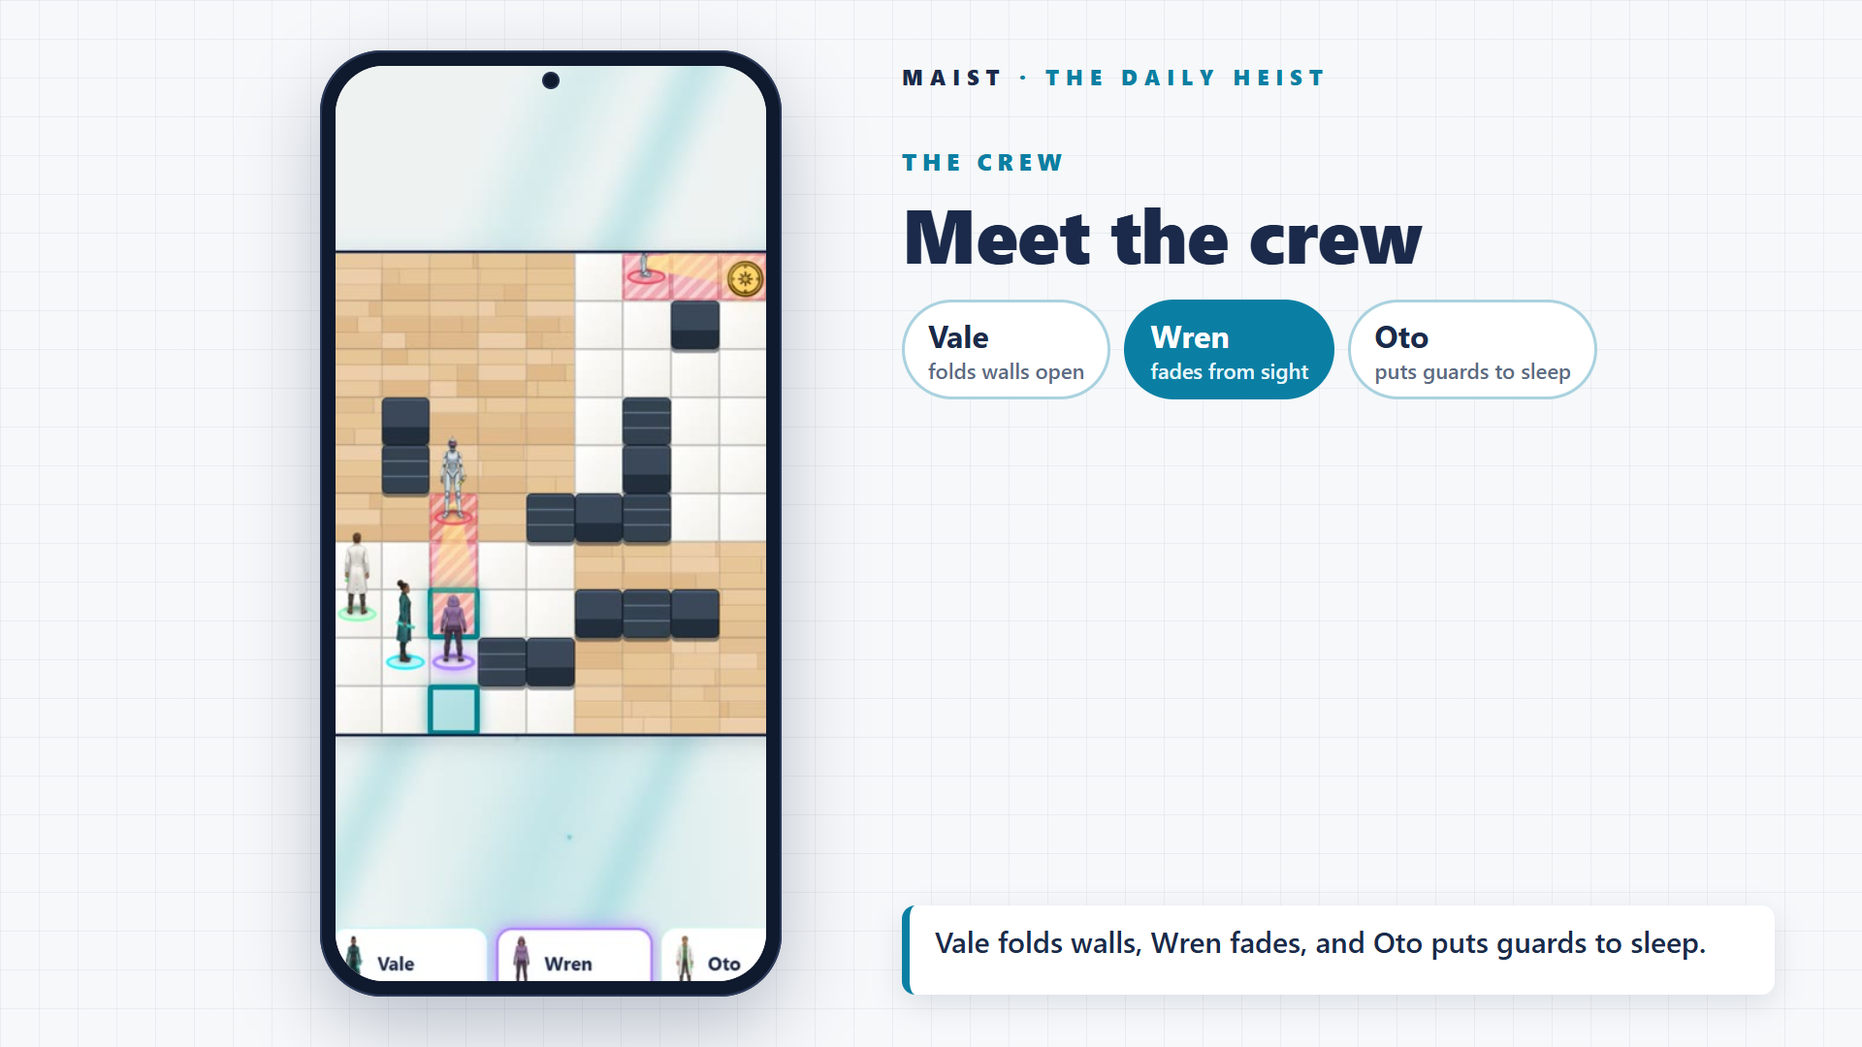
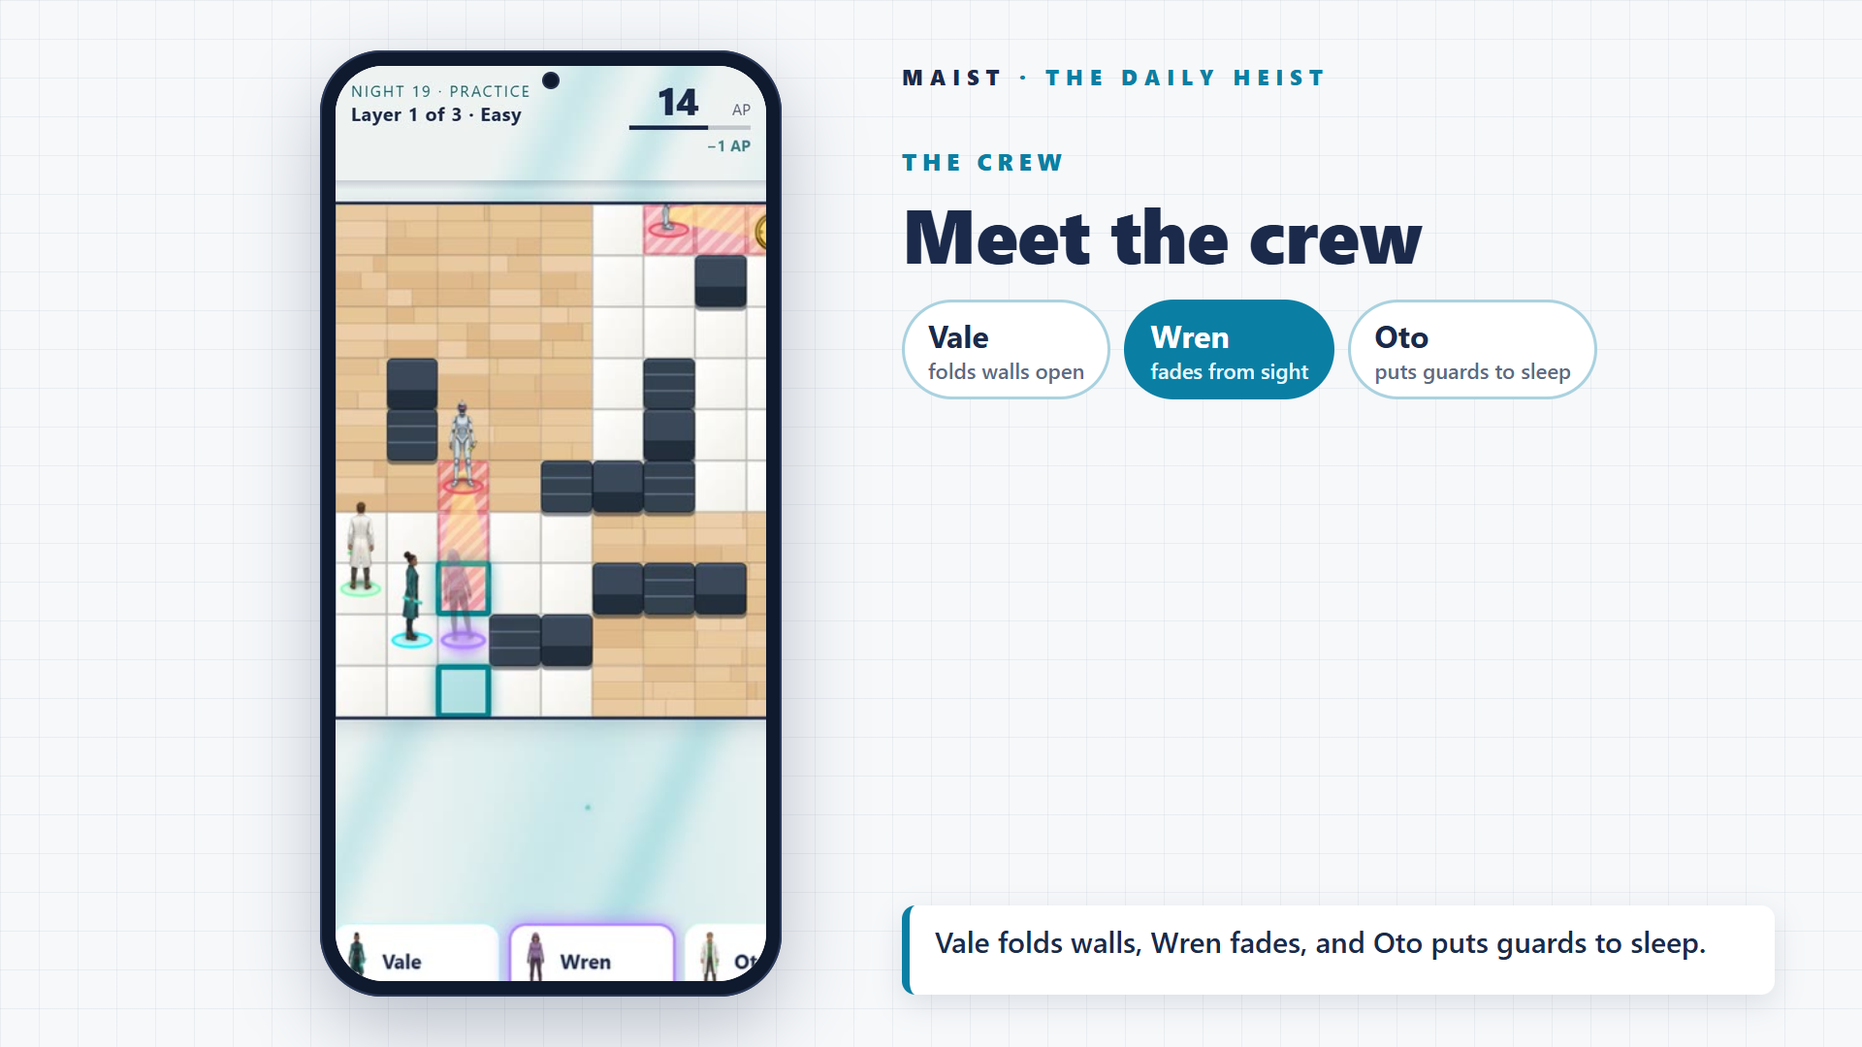
Video polish, YouTube text and the full Devpost form
- Demo video (still 54.000 s): in the Pull and leaderboard scenes the
  small live Reddit screenshot grows to full phone size for about a
  second so it can be read, then shrinks back; the crew scene keeps the
  game's top HUD (layer name + AP) pinned while the board zooms in on
  the crew.
- docs/video/YOUTUBE.md: title, description with the r/MaistHeist link
  and "Built for Reddit's Game of the Day Hackathon 2026", 8 tags.
- docs/DEVPOST.md: every field of the submit form in order (name, a
  48-character tagline, the full story saying it was newly built during
  the hackathon in Nov 2026, Built-with tags, app listing, current demo
  post, YouTube placeholder, gallery order) and a click-by-click
  checklist including the optional Developer Platform feedback survey.

The Join fix is live on r/MaistHeist (v0.0.5, upload + install only,
not published) and the playtest on r/maist_game_dev was restarted.

diff --git a/scripts/video/compose.html b/scripts/video/compose.html
@@ -35,6 +35,9 @@
   .screen { position: relative; width: 444px; height: 944px; border-radius: 50px; overflow: hidden; background: #fff; }
   .screen .content { position: absolute; inset: 0; transform-origin: 50% 50%; }
   .screen img.feed, .screen img.rec { position: absolute; inset: 0; width: 100%; height: 100%; object-fit: cover; object-position: 50% 0; }
+  /* the game's top HUD (layer name + AP), pinned unzoomed above a zoomed board */
+  .screen img.hud { position: absolute; inset: 0; width: 100%; height: 100%; object-fit: cover; object-position: 50% 0; clip-path: inset(0 0 87.5% 0); z-index: 2; display: none; }
+  .screen .hudline { position: absolute; left: 0; right: 0; top: 12.5%; height: 10px; background: linear-gradient(rgba(27,42,74,.18), transparent); z-index: 2; display: none; }
   .live-badge {
     position: absolute; left: 50%; top: 70px; transform: translateX(-50%); z-index: 4;
     background: var(--teal); color: #fff; font-weight: 800; font-size: 18px; letter-spacing: 0.14em;
@@ -57,7 +60,7 @@
 
   /* ---- live Reddit cards (real screenshots) */
   .card { position: absolute; left: 930px; top: 462px; width: 900px; height: 410px; opacity: 0; transform: translateY(30px); display: flex; gap: 30px; align-items: flex-start; }
-  .card .mini { width: 190px; height: 410px; border-radius: 28px; background: #101a2e; padding: 10px; box-shadow: 0 20px 50px rgba(27, 42, 74, 0.25); flex: none; }
+  .card .mini { width: 190px; height: 410px; border-radius: 28px; transform-origin: 0 0; position: relative; z-index: 5; background: #101a2e; padding: 10px; box-shadow: 0 20px 50px rgba(27, 42, 74, 0.25); flex: none; }
   .card .mini img, .card .mini .ph { width: 100%; height: 100%; border-radius: 20px; object-fit: cover; object-position: 50% 0; display: block; background: #e8edf3; }
   .card .ph { display: flex; align-items: center; justify-content: center; text-align: center; color: var(--soft); font-size: 20px; padding: 20px; }
   .card .note { padding-top: 26px; }
@@ -105,6 +108,7 @@
   <div class="phone">
     <div class="screen">
       <div class="content"><img class="rec" id="rec" alt="" /><img class="feed" id="feed" alt="" /></div>
+      <img class="hud" id="hud" alt="" /><div class="hudline" id="hudline"></div>
     </div>
     <div class="live-badge" id="phoneLive">LIVE ON REDDIT</div>
   </div>
@@ -151,6 +155,14 @@
     }
     feed.style.display = s.feed ? 'block' : 'none';
     document.getElementById('phoneLive').style.display = s.feed ? 'block' : 'none';
+    const hud = document.getElementById('hud');
+    hud.style.display = s.hud ? 'block' : 'none';
+    document.getElementById('hudline').style.display = s.hud ? 'block' : 'none';
+    if (s.hud && hud.dataset.src !== s.rec) {
+      hud.dataset.src = s.rec;
+      hud.src = s.rec;
+      loads.push(hud.decode().catch(() => {}));
+    }
     const content = document.querySelector('.screen .content');
     content.style.transform = `scale(${s.zoom.scale})`;
     content.style.transformOrigin = `${s.zoom.fx * 100}% ${s.zoom.fy * 100}%`;
@@ -180,6 +192,13 @@
         ph.textContent = s.card.placeholder;
       }
       document.getElementById('cardNote').textContent = s.card.note;
+      // grow the small screenshot to full phone height so it can be read, then back
+      const z = s.card.zoom ?? 0;
+      const k = z * z * (3 - 2 * z);
+      const mini = card.querySelector('.mini');
+      mini.style.transform = `translate(${232 * k}px, ${-394 * k}px) scale(${1 + 1.3 * k})`;
+      mini.style.boxShadow = k > 0 ? `0 30px 80px rgba(27,42,74,${0.25 + 0.2 * k})` : '';
+      card.style.zIndex = k > 0 ? '20' : '';
     }
     const b = document.getElementById('bubble');
     b.style.opacity = s.bubble;

diff --git a/docs/DEVPOST.md b/docs/DEVPOST.md
@@ -1,139 +1,155 @@
 # Devpost submission: Maist: The Daily Heist
 
-Everything to paste into Devpost, plus a click-by-click checklist at the end.
-
-- **Play it:** https://www.reddit.com/r/MaistHeist/ (Night 1 post: https://www.reddit.com/r/MaistHeist/comments/1y6a4ox/)
-- **App:** https://developers.reddit.com/apps/maist-game
-- **Demo video (file):** `docs/video/maist-demo.mp4` (54.0 s, 1920x1080). Upload it to YouTube and paste that link.
-- **Vertical teaser:** `docs/video/maist-teaser-vertical.mp4` (15 s, 1080x1920)
-- **Gallery images:** `docs/devpost/still-1-crew.png` … `still-5-leaderboard.png` (1920x1080)
+Every field of the submit form on https://redditgameofday2026.devpost.com, ready to copy and paste, in the
+order the form asks for them. The click-by-click checklist is at the end.
 
 ---
 
-## Project name
+## 1. Project name
 
+```
 Maist: The Daily Heist
+```
 
-## Tagline (elevator pitch, max 200 characters)
+## 2. Tagline (under 60 characters)
 
-A new heist every day on Reddit: sneak a crew of three past security bots, crack three vaults, race tonight's #1 ghost, and get pulled back by friends who reply WAKE UP.
+```
+A new crew stealth heist every day, inside Reddit
+```
 
-## About the project
+(48 characters)
 
-### Inspiration
+## 3. About the project (the story field, Markdown)
 
-We wanted a daily game that feels like it belongs on Reddit: short enough to play in a feed, the same
-puzzle for everyone so the comments become the strategy guide, and a reason to talk to each other
-while you play. Heist movies gave us the crew, the vault and the "it's never that simple" twist.
+```markdown
+## Inspiration
 
-### What it does
+We wanted a daily game that feels like it belongs on Reddit: short enough to play from the feed, the same puzzle for everyone so the comments become the strategy guide, and a reason for players to help each other. Heist movies gave us the crew, the vault, and the "it's never that simple" twist.
 
-Every night at 00:00 UTC a new post appears with a new heist, generated from the date so everyone gets
-the same three maps.
+**Maist was newly built during the Reddit Game of the Day Hackathon, in November 2026.** Everything you see (the game, the server, the art pipeline, the public subreddit r/MaistHeist and the demo video) was made during the hackathon.
 
-- **A crew of three, one shared pool of moves.** Vale **folds** walls open, Wren **fades** from sight,
-  and Oto puts robots to **sleep**. Every step and ability spends the same Action Points, so the puzzle
-  is choosing who moves and when.
-- **Turn-based stealth.** Robots move after each of your actions; their flashlight beams (red tiles)
-  catch anyone who steps in. Easy has statues, Hard has patrols, Difficult adds fog and watchers that
-  turn toward you.
-- **The vault slips!** On some layers the vault vanishes when you reach it and reappears elsewhere, with a
-  gold ping for one turn before you have to search for it.
-- **Play with friends: the Pull.** Out of moves? The game posts a call for help under the pinned crew
-  thread. Anyone who replies **WAKE UP** sends you a Pull: +6 moves and your crew comes back.
-- **Ghost race.** Tonight's #1 scored run plays beside you as see-through ghosts, one step per action.
-- **Daily leaderboard and streaks.** One scored run per night (the server replays every move, so scores
-  can't be faked), Snoovatars on the leaderboard, streaks for playing night after night, and a
-  "Join r/MaistHeist" button at the end so you come back tomorrow.
-- **For every player.** White and night themes, 5 languages (English, 中文, 日本語, Deutsch, हिन्दी),
-  bigger text, reduced motion, and a Smooth mode that switches on by itself on low-end phones.
-  Logged-out visitors can practice.
+## What it does
 
-### How we built it
+Every day at 00:00 UTC a new post appears on r/MaistHeist with a new heist, generated from the date so everyone gets the same three maps.
 
-- **Devvit Web** (Reddit's Developer Platform): the game runs in the post as a web view (TypeScript and
-  CSS, no game engine). A Hono server handles the leaderboards, streaks, the ghost run and the
-  Pull, stored in Redis. A daily scheduler creates each night's post and its pinned crew thread.
-- **One deterministic rules engine** is shared by the client (to play) and the server (to replay and
-  score every run). A solver checks that every generated map can be cleared within its move budget,
-  including the full route after a vault slips.
-- **Art:** semi-realistic character sheets we generated, cut into front, side and back views with the
-  free offline tools of sprite-gen. A build script removes the leftover white background and adds soft
-  shadows. All animation (breathing, steps, crouching, cheering) is code; the office floor is drawn on
-  a canvas.
-- **Performance:** we profiled with a 6x CPU throttle to stand in for a cheap phone, removed forced
-  reflows, and added Smooth mode. It holds 55+ fps there while walking.
-- **The demo video** was made with code too: Playwright played the real game in a phone-sized
-  window, a script cut the scenes, and the narration is a Microsoft neural voice (edge-tts).
+- **A crew of three, one shared pool of moves.** Vale **folds** walls open, Wren **fades** from sight, and Oto puts robots to **sleep**. Every step and ability spends the same Action Points, so the puzzle is choosing who moves and when.
+- **Turn-based stealth.** Robots move after each of your actions and their flashlight beams (the red tiles) catch anyone who steps in. Easy has robots that stand still, Hard has patrols, and Difficult adds fog and watchers that turn toward you.
+- **The vault slips!** On some layers the vault vanishes when you reach it and reappears somewhere else. A gold ping shows where for one turn, then you have to find it.
+- **Play with friends: the Pull.** Out of moves? The game posts a call for help under the pinned crew thread, and anyone who replies **WAKE UP** sends you a Pull: +6 moves, and your crew comes back.
+- **Ghost race.** Tonight's #1 scored run plays beside you as see-through ghosts, one step for each of your actions.
+- **Daily leaderboard and streaks.** You get one scored run per night, and the server replays every move, so scores can't be faked. Snoovatars appear on the leaderboard, streaks build when you play night after night, and a "Join r/MaistHeist" button at the end brings you back tomorrow.
+- **For every player.** White and night themes, 5 languages (English, 中文, 日本語, Deutsch, हिन्दी), bigger text, reduced motion, and a Smooth mode that turns on by itself on low-end phones. Visitors who aren't logged in can practice.
 
-### Challenges we ran into
+## How we built it
 
-- Keeping the daily maps fair: the vault-slip twist meant the solver had to price the whole route
-  (start, vault, new vault) and every layer had to stay solvable.
-- Making the game smooth on low-end phones inside the Reddit app. Profiling surprised us: one
-  background animation was keeping the board on its own GPU layer.
-- Designing a social mechanic that works with plain Reddit comments: the Pull reads replies under
-  your call for help.
+- **Devvit Web** (Reddit's Developer Platform). The game runs inside the post as a web view written in TypeScript and CSS, with no game engine. A Hono server stores the leaderboards, streaks, the ghost run and the Pull in Redis. A daily scheduler creates each night's post and its pinned crew thread.
+- **One deterministic rules engine** is shared by the client, which plays, and the server, which replays and scores every run. A solver checks that every generated map can be cleared within its move budget, including the full route after the vault slips.
+- **Art.** We generated semi-realistic character sheets and cut them into front, side and back views with sprite-gen's free offline tools. A build script removes leftover background and adds soft shadows. All animation (breathing, steps, crouching, cheering) is code, and the office floor is drawn on a canvas.
+- **Performance.** We profiled with a 6x CPU throttle to stand in for a cheap phone, removed forced reflows, and added Smooth mode, which holds 55+ fps while walking.
+- **The demo video** was made with code too: Playwright played the real game in a phone-sized window, a script cut the scenes, and the narration is a Microsoft neural voice.
 
-### Accomplishments that we're proud of
+## Challenges we ran into
 
-- A real daily ritual: same puzzle for everyone, one scored try, a ghost of the night's best run, and
-  friends who can rescue you.
-- Fair and cheat-proof scoring: the server re-runs every move with the same engine.
-- It fits every screen from a phone to a 1920x1080 monitor without scrolling, in 5 languages.
+- **Keeping daily maps fair.** The vault slip meant the solver had to price the whole route (start, vault, new vault), and every layer had to stay solvable.
+- **Making it smooth on low-end phones inside the Reddit app.** Profiling surprised us: one slow background animation was what kept the board on its own GPU layer.
+- **A social mechanic that works with plain Reddit comments.** The Pull works by reading replies under your call for help.
 
-### What we learned
+## Accomplishments that we're proud of
 
-- Devvit's triggers, scheduler and Redis make "a new post every day" simple, so you can spend your time
-  on the game.
-- Measure before optimizing: some of our performance guesses were wrong until we profiled.
+- A real daily ritual: the same puzzle for everyone, one scored try, a ghost of the night's best run, and friends who can rescue you.
+- Cheat-proof scoring: the server re-runs every move with the same engine.
+- It fits every screen, from a phone to a 1920x1080 monitor, without scrolling, in 5 languages.
 
-### What's next for Maist: The Daily Heist
+## What we learned
 
-More rooms (the office is the first), more crew abilities, weekly "heist seasons" with a shared story,
-and crew leaderboards for subreddits that play together.
+- Devvit's triggers, scheduler and Redis make "a new post every day" simple, so the time goes into the game.
+- Measure before you optimize: several of our performance guesses were wrong until we profiled.
 
-### Built during the hackathon
+## What's next for Maist: The Daily Heist
 
-Maist was designed and built during the Reddit Game of the Day Hackathon, starting on 21 November 2026:
-the game, the server, the art pipeline, the public subreddit r/MaistHeist and this video.
+More rooms (the office is the first), more crew abilities, weekly heist seasons with a shared story, and crew leaderboards for subreddits that play together.
+```
 
-## Built with
+## 4. Built with (add one tag at a time)
 
-`devvit` · `reddit-developer-platform` · `typescript` · `hono` · `redis` · `vite` · `css` · `canvas` ·
-`web-audio-api` · `playwright` · `ffmpeg` · `edge-tts` · `sprite-gen` · `python`
+```
+devvit
+reddit-developer-platform
+typescript
+hono
+redis
+vite
+css
+html5-canvas
+web-audio-api
+playwright
+ffmpeg
+```
 
-## Try it out links
+## 5. "Try it out" links
 
-- https://www.reddit.com/r/MaistHeist/
-- https://www.reddit.com/r/MaistHeist/comments/1y6a4ox/
-- https://developers.reddit.com/apps/maist-game
+- **App listing:** `https://developers.reddit.com/apps/maist-game`
+- **Demo post (current daily post on r/MaistHeist, Night 2):** `https://www.reddit.com/r/MaistHeist/comments/1y6fam4/`
+- **The subreddit:** `https://www.reddit.com/r/MaistHeist/`
 
-## Credits
+(A new post appears every day. If the form wants "the" demo post on a later day, open r/MaistHeist → New and copy the newest "Maist: The Daily Heist · Night N" post link.)
 
-- Character art: our own generations (Higgsfield), processed with sprite-gen's free tools.
-- Music in the demo video: "Pop Pop" by The_Mountain (Pixabay, file `the_mountain-pop-pop-music-576583.mp3`).
-  Check the Pixabay licence page before publishing.
-- Narration: Microsoft neural voice en-US-AndrewNeural via edge-tts.
-- Game sound effects and in-game music: synthesised with the Web Audio API (no samples).
+## 6. Video demo link
+
+```
+https://youtu.be/PASTE-YOUR-VIDEO-ID-HERE
+```
+
+Upload `docs/video/maist-demo.mp4` (54.0 s) first, using `docs/video/YOUTUBE.md`.
+
+## 7. Image gallery: upload in this order
+
+1. `docs/devpost/still-2-vault-slips.png` (also use this as the thumbnail / cover image)
+2. `docs/devpost/still-1-crew.png`
+3. `docs/devpost/still-4-wake-up.png`
+4. `docs/devpost/still-3-ghost-race.png`
+5. `docs/devpost/still-5-leaderboard.png`
+
+Optional extras (real Reddit screenshots): `docs/video/real/feed.png`, `docs/video/real/thread.png`.
+
+## 8. Other form questions (if the form asks)
+
+- **Reddit username:** u/Dangerous_Lie_7980
+- **App name on Reddit's Developer Platform:** maist-game
+- **Subreddit:** r/MaistHeist
+- **Was this built during the hackathon?** Yes, it was newly built in November 2026, during the hackathon.
+- **Credits:** character art from our own generations (Higgsfield), processed with sprite-gen. In-game music
+  and sound are synthesised with the Web Audio API. Demo video music: "Pop Pop" by The_Mountain
+  (Pixabay). Narration: Microsoft neural voice en-US-AndrewNeural (edge-tts).
 
 ---
 
-## Checklist: what to click on Devpost
+## Checklist: what to click on redditgameofday2026.devpost.com
 
-1. **Upload the video to YouTube** (Devpost needs a link): YouTube → Create → Upload video →
-   `docs/video/maist-demo.mp4` → title "Maist: The Daily Heist (Reddit Game of the Day Hackathon)" →
-   Visibility **Public** or **Unlisted** → copy the link.
-2. Open the hackathon page on Devpost → **Enter a submission** (or **Edit submission**).
-3. **Project overview:** paste the *Project name* and *Tagline* above. Upload a thumbnail:
-   `docs/devpost/still-2-vault-slips.png`.
-4. **Project details:** paste *About the project* (Inspiration through What's next, plus the "Built during
-   the hackathon" note) into the story field. Paste the *Built with* tags one by one.
-5. **Try it out links:** add the three links above.
-6. **Video demo link:** paste the YouTube link.
-7. **Image gallery:** upload `docs/devpost/still-1-crew.png` … `still-5-leaderboard.png` (and the real
-   screenshots in `docs/video/real/` if you like).
-8. **Additional info / questions:** answer what the form asks (for example, your Reddit username
-   u/Dangerous_Lie_7980, the app name `maist-game`, and the subreddit r/MaistHeist).
-9. Tick the rules / terms checkboxes yourself, then click **Save** and **Submit**. Before the deadline,
-   check the submission page says **Submitted**.
+Before you start:
+
+- [ ] Upload `docs/video/maist-demo.mp4` to YouTube with the text in `docs/video/YOUTUBE.md`, set it to
+      Public or Unlisted, and copy the link.
+- [ ] Do **not** publish the app on developers.reddit.com: the rules ask for it to stay private.
+
+On Devpost:
+
+1. [ ] Go to **https://redditgameofday2026.devpost.com** and log in (top right).
+2. [ ] If you haven't yet, click **Join hackathon** and accept the rules.
+3. [ ] Click **Enter a submission** (or **My projects → Edit** if you started one).
+4. [ ] **Project name:** paste section 1. **Tagline:** paste section 2. Click **Save & continue**.
+5. [ ] **Thumbnail / cover image:** upload `docs/devpost/still-2-vault-slips.png`.
+6. [ ] **About the project:** paste all of section 3 into the story field.
+7. [ ] **Built with:** type each tag from section 4 and press Enter after each one.
+8. [ ] **Try it out links:** add the app listing, the demo post and the subreddit (section 5).
+9. [ ] **Video demo link:** paste your YouTube link (section 6).
+10. [ ] **Image gallery:** upload the 5 stills in the order of section 7.
+11. [ ] **Additional questions:** answer from section 8 (username, app name, built during the hackathon).
+12. [ ] **Team:** if you have teammates, invite them from the project page. Otherwise skip this.
+13. [ ] Tick the **terms / eligibility checkboxes** yourself, then click **Submit project**.
+14. [ ] Check that the project page shows **Submitted** (not Draft) before the deadline:
+      **8 December 2026, 6 pm PST**.
+15. [ ] **Optional: Developer Platform feedback survey.** It's linked from the hackathon page (look in the
+      "Resources" or "Updates" tab, or in the confirmation email). Open it and share what worked and what
+      was hard (ideas: SUBSCRIBE_TO_SUBREDDIT is not granted to unpublished apps, the playtest upload
+      sometimes stalls on "Finishing upload", and the login token expires during long sessions).

diff --git a/docs/video/YOUTUBE.md b/docs/video/YOUTUBE.md
@@ -1,0 +1,25 @@
+# YouTube upload: Maist: The Daily Heist
+
+File: `docs/video/maist-demo.mp4` (54.0 s, 1920x1080). Thumbnail: `docs/devpost/still-2-vault-slips.png`.
+Visibility: Public (or Unlisted). Audience: "No, it's not made for kids".
+
+## Title
+
+Maist: The Daily Heist | A New Stealth Puzzle Every Day on Reddit
+
+## Description
+
+Maist: The Daily Heist is a turn-based stealth puzzle you play right inside a Reddit post. Every day
+there is a new heist, the same for everyone: sneak a crew of three past security bots, crack the vault
+on three dream layers, race the ghost of tonight's #1 player, and if you get stuck, friends rescue you
+by replying WAKE UP in the thread.
+
+Play it: https://www.reddit.com/r/MaistHeist/
+
+Built for Reddit's Game of the Day Hackathon 2026, on Reddit's Developer Platform (Devvit).
+
+Music: "Pop Pop" by The_Mountain (Pixabay). Narration: Microsoft neural voice.
+
+## Tags
+
+Reddit, Devvit, daily puzzle, stealth game, puzzle game, web game, indie game, hackathon
